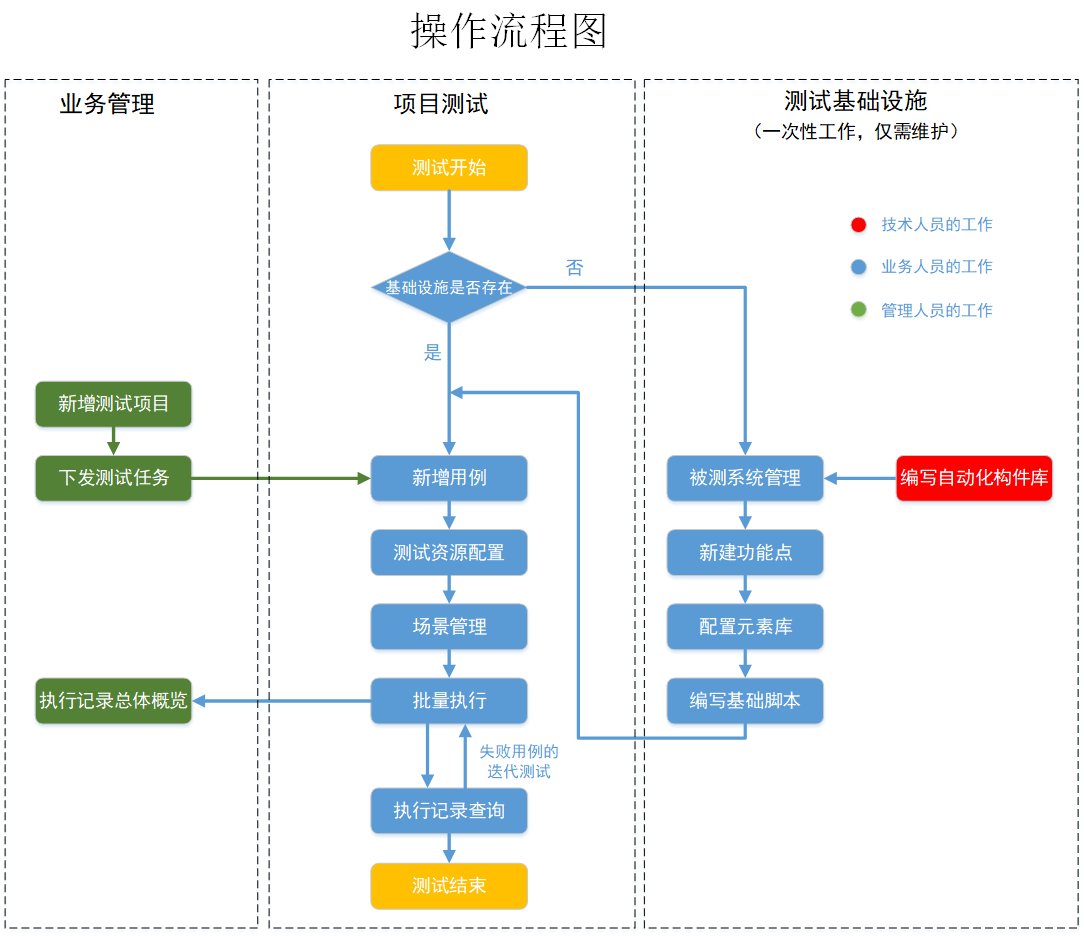
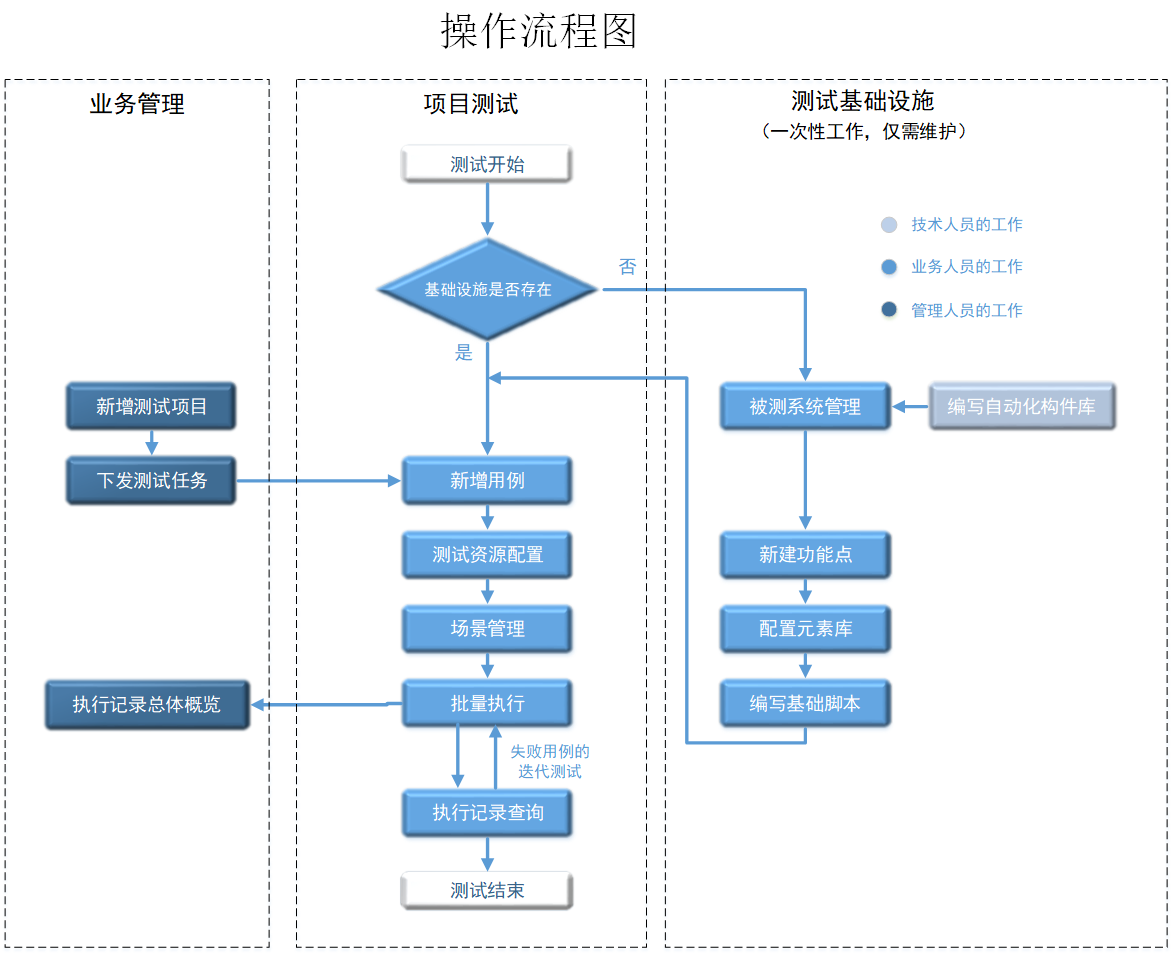
修改了首页

diff --git a/pages/home.html b/pages/home.html
@@ -16,19 +16,19 @@
         <section id="main-content">
             <section class="wrapper fixedwh" >
                 <div>
-                    <img  src="../static/images/Operationflow.png" width="63%"  usemap="#Map">
+                    <img  src="../static/images/Operationflow4.png" width="68%"  usemap="#Map" style="margin:0 200px">
                     <map name="Map" id = "CribMap">
-                        <area shape="rect" coords="560,285,661,315"  href="./architecture.html"> <!--编写自动化构件库-->
-                        <area shape="rect" coords="419,284,519,315" href="./aut.html"> <!--被测系统管理-->
-                        <area shape="rect" coords="419,332,519,361" href="./aut.html" onclick="goHere('newfunpoint')"> <!--新建功能点-->
-                        <area shape="rect" coords="419,378,519,409" href="./aut.html" onclick="goHere('elelibrary')"> <!--配置元素库-->
-                        <area shape="rect" coords="419,425,519,456" href="./aut.html" onclick="goHere('basicscript')"> <!--生成基础脚本-->
-                        <area shape="rect" coords="231,425,332,456" href="./testplan-execute.html"> <!--批量执行-->
-                        <area shape="rect" coords="231,378,332,409" href="./scene.html"> <!--场景管理-->
-                        <area shape="rect" coords="231,332,332,361" href="./datatable.html"> <!--测试资源配置-->
-                        <area shape="rect" coords="231,284,332,315" href="./caseManagement.html"> <!--新增用例-->
-                        <area shape="rect" coords="231,495,332,525" href="./execution.html">   <!--执行记录查询-->
-                        <area shape="rect" coords="21,238,119,270" href="./testProject.html">   <!--新增测试项目-->
+                        <area shape="rect" coords="590,280,705,310"  href="./architecture.html"> <!--编写自动化构件库-->
+                        <area shape="rect" coords="450,280,550,310" href="./aut.html"> <!--被测系统管理-->
+                        <area shape="rect" coords="450,328,550,357" href="./aut.html" onclick="goHere('newfunpoint')"> <!--新建功能点-->
+                        <area shape="rect" coords="450,374,550,405" href="./aut.html" onclick="goHere('elelibrary')"> <!--配置元素库-->
+                        <area shape="rect" coords="450,421,550,452" href="./aut.html" onclick="goHere('basicscript')"> <!--生成基础脚本-->
+                        <area shape="rect" coords="251,420,352,451" href="./testplan-execute.html"> <!--批量执行-->
+                        <area shape="rect" coords="251,373,352,404" href="./scene.html"> <!--场景管理-->
+                        <area shape="rect" coords="251,327,352,356" href="./datatable.html"> <!--测试资源配置-->
+                        <area shape="rect" coords="251,279,352,310" href="./caseManagement.html"> <!--新增用例-->
+                        <area shape="rect" coords="251,490,352,520" href="./execution.html">   <!--执行记录查询-->
+                        <area shape="rect" coords="43,234,141,266" href="./testProject.html">   <!--新增测试项目-->
                         
                     </map>
                 </div>
